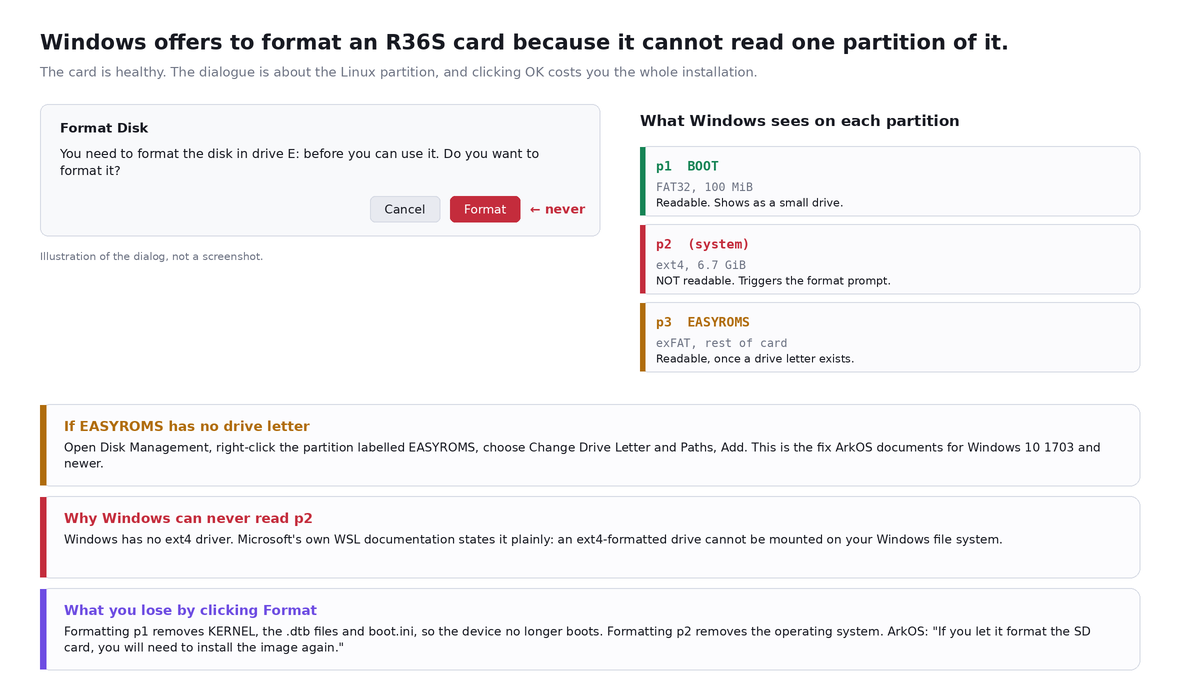
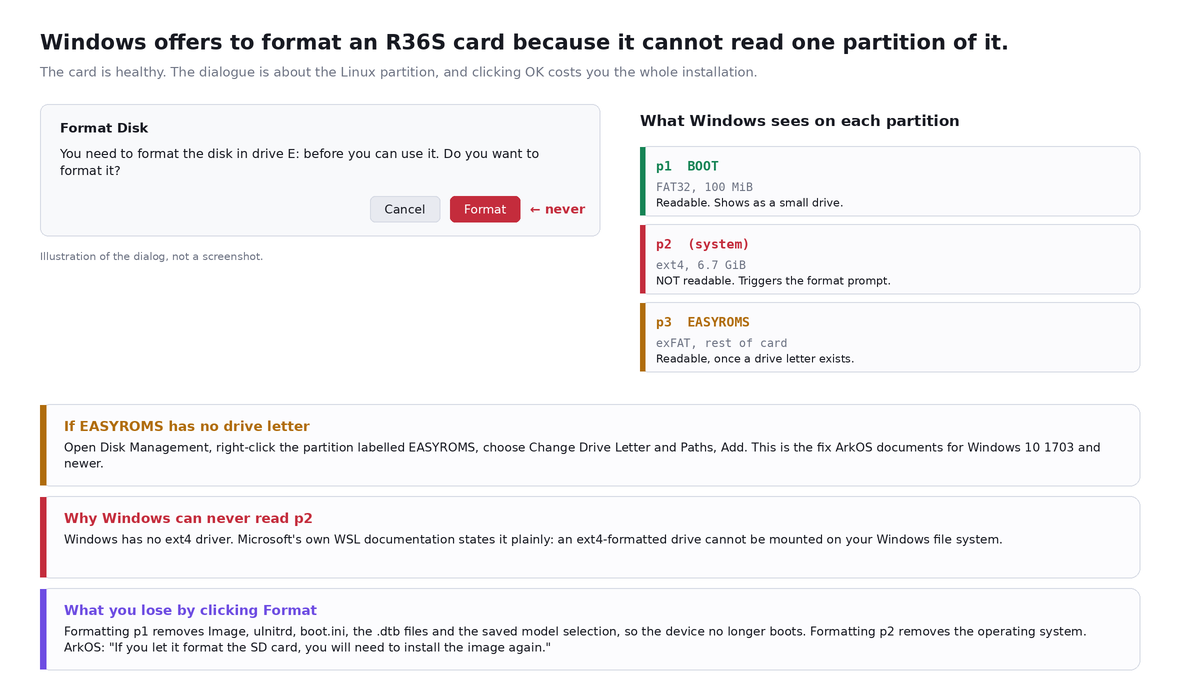
Apply verification corrections from a second research pass
- BOOT holds Image + uInitrd (not uImage/KERNEL), plus the persisted model selection
- EASYROMS format also loses the roms/tools bind-mount
- V30 IS supported: it is in files/BOOT/dtb/r36s, only absent from the wiki table
- The phone failure has two documented mechanisms (Android adoptable storage formats
  and encrypts; cards can set a permanent write-protect bit) - 'the OTG reader broke
  it' has no primary source and is now marked as folklore
- ddrescue needs -f when the output is a device
- fsck.fat's -f salvages orphan clusters, it is not 'force'
- DiskGenius free tier: small files only, no sector image
- balenaEtcher cannot image a device to a file
- Microsoft's RAW / 'Not Initialized' / 'Unreadable' states as the damage test
- SDXC capacity is per card, not fixed by the standard
- Windows hides a partition typed 0x83: a second way the games partition vanishes
- h2testw points at the live product page

Changed region(s): [[0.061, 0.87, 0.9153, 0.93]]

diff --git a/README.md b/README.md
@@ -86,17 +86,20 @@ offsets and type codes are visible:
 
 | Partition | Start sector | Size in the image | Type code | What it is |
 |---|---|---|---|---|
-| p1 | 32768 | 100 MiB | `0c` W95 FAT32 (LBA) | `BOOT`: `KERNEL`, the `.dtb` files, `boot.ini` |
+| p1 | 32768 | 100 MiB | `0c` W95 FAT32 (LBA) | `BOOT`: `Image` (the kernel), `uInitrd`, `boot.ini`, the `.dtb` files, the model selector |
 | p2 | 237568 | 6.7 GiB | `83` Linux (ext4) | the operating system |
 | p3 | 14368768 | 100 MiB placeholder | `07` HPFS/NTFS/exFAT | named `EASYROMS`, grown to fill the card on first boot |
 
 So:
 
 - **p1 `BOOT`** is FAT32. Windows reads it, and it is the small drive that appears first.
-- **p2 (ext4)** Windows cannot read at all. Microsoft's own WSL documentation says it without hedging:
-  *"If you have an Ext4-formatted drive, you cannot mount it on your Windows file system."* Windows has no
-  ext4 driver, so it sees a volume with an unknown filesystem — and its standard reaction to an unknown
-  filesystem on removable media is to offer to format it.
+- **p2 (ext4)** Windows cannot read at all. Microsoft's list of the filesystems Windows supports is
+  *"NTFS / ExFAT / UDF / FAT32"* — ext4 is not on it, and Microsoft's WSL documentation says so without
+  hedging: *"If you have an Ext4-formatted drive, you cannot mount it on your Windows file system."*
+  Microsoft then defines the state that triggers the dialog: *"If a partition doesn't have a file system
+  (it's listed as RAW instead of NTFS, ReFS, FAT32, or exFAT) …"* — and adds its own warning, aimed at
+  exactly this situation: *"Formatting a disk erases all data on it, so don't do this step if you're
+  trying to recover files from the disk."*
 - **p3 `EASYROMS`** is exFAT and Windows *can* read it. If it does not appear, that is usually a missing
   drive letter, and the documented fix is a drive letter, not a format.
 
@@ -123,14 +126,18 @@ which Windows reads natively.
 
 That is about the flashing step, but it applies every time the dialogue appears:
 
-- Format **p1 (`BOOT`)** and you lose `KERNEL`, the `.dtb` files and `boot.ini`. The device will not boot.
-  The card still holds your games, but you now need a re-flash to use them.
+- Format **p1 (`BOOT`)** and you lose `Image` (the kernel), `uInitrd`, `boot.ini`, the `.dtb` files and
+  the small hidden state files the image writes back into `/boot` — including the persisted board/panel
+  selection. The device will not boot, and on a unit that needs a panel-specific device tree the result
+  is usually a black screen. The card still holds your games, but you now need a re-flash to use them.
 - Format **p2 (ext4)** and you lose the operating system. This is the partition Windows is usually
   complaining about, and it is the one with nothing on it that Windows can show you — which is exactly why
   people click OK.
-- Format **p3 (`EASYROMS`)** and you lose the games and the `roms` folder structure. Recoverable by
-  copying files back, but you must not delete the folders the emulators depend on: ArkOS warns that the
-  PSP and NDS folders contain files those emulators need.
+- Format **p3 (`EASYROMS`)** and you lose the games, the `roms` folder structure and the `roms/tools`
+  tree that is bind-mounted into the system (PortMaster and the other on-device tools live there). The
+  operating system still boots, so this is the one of the three that is survivable — but you must not
+  delete the folders that are already there: ArkOS warns that the PSP and NDS folders contain files those
+  emulators need even before you add a single game.
 
 Formatting is not a "reset the card to a known good state" button on a device whose operating system
 lives on the same card.
@@ -139,15 +146,38 @@ lives on the same card.
 
 ![Decision tree: what to check before you let anything format the card](docs/02-decision-tree.png)
 
-1. **The partition table is gone.** Disk Management shows the whole card as unallocated, or the large
-   partition shows as `RAW`, and the device does not boot. Windows will happily offer to "fix" this by
-   creating one big empty partition — which overwrites the table that still points at your data.
+1. **The partition table is gone.** Here you can use Microsoft's own vocabulary as the test, because it
+   distinguishes the two cases for you: a partition that lists as **`RAW`** means Windows can see the
+   partition but not its filesystem — which is simply what a Linux partition looks like — whereas a disk
+   reporting **"Not Initialized"** (Microsoft: *"the drive formatting has become corrupted somehow"*) or
+   **"Unreadable"** means Windows cannot even make sense of the partitioning. Those last two are
+   corruption or hardware failure, not a Linux filesystem. Windows will happily offer to "fix" either one
+   by creating a single empty partition, overwriting the table that still points at your data.
    **TestDisk** exists for exactly this: it reconstructs a lost partition table, recovers FAT boot sectors
    from their backups, and can locate ext2/3/4 backup superblocks.
-2. **The card is dying or counterfeit.** It disappears from every reader, or the device will not boot
-   even though the same card worked yesterday. The group member who lost 320 games after an OTG session
-   on a phone is describing this class of failure. Copy whatever sectors are still readable to an image
-   file, then replace the card. A card that has started doing this does not come back.
+2. **The card is dying, counterfeit, or has been reformatted by a phone.** The group member who lost 320
+   games after sorting files on the card through a phone needs a specific answer, because there are two
+   documented ways that happens and only one of them is hardware damage:
+
+   - **Android adoptable storage.** If the phone offered to "set up" the card and that was accepted,
+     Android reformats and encrypts it. Google's documentation: *"When external storage media is adopted,
+     it's formatted and encrypted to only work with a single Android device at a time"* and *"they can
+     choose to adopt the media, which formats and encrypts it."* The card is then unreadable in the R36S
+     **and** on a PC, and no recovery tool will get the games back — but nothing is physically broken, and
+     the fix is simply to reformat the card and copy the games across again.
+   - **A card that has set its own permanent write-protect bit.** SD cards carry a
+     `PERM_WRITE_PROTECT` flag (CSD bit 13) that makes them read-only for good — Kingston documents the
+     bit, and Linux acts on it unconditionally in the MMC layer. From then on the card looks fine and
+     refuses every write, which shows up as a filesystem that cannot be repaired.
+
+   The third possibility, that the OTG reader physically damaged the card, is the explanation everyone
+   repeats and we could not find a single primary source for it — treat it as folklore.
+
+   > ⚠ **Not verified:** we did not reproduce the phone/OTG failure. The two mechanisms above are the
+   > documented ones; "the reader fried the card" is asserted widely and documented nowhere.
+
+   Either way the response is the same: copy whatever sectors are still readable to an image file, then
+   replace the card. A card that has started failing does not come back.
 
 The third possibility worth ruling out is simply a **fake-capacity card** — one that reports 128 GB and
 really has 8 GB, so everything past the real capacity silently overwrites itself. `f3`
@@ -160,7 +190,8 @@ noticing that their "128 GB" card is "actually only 90 GB" is the benign version
 
 Our own unit's System Info screen. Two things worth reading off it: **SD Card 1 reports 119.88 GB**,
 which is the figure you expect from a card in the 128 GB class — the usual decimal-vs-binary gap, not
-evidence of a fake card — and **SD Card 2 is listed separately**, which is the second slot. That second
+evidence of a fake card (the SD standard itself defines SDXC only as *"over 32GB-2TB"*, so the exact byte
+count is per-card and two cards with the same printed capacity are not required to match) — and **SD Card 2 is listed separately**, which is the second slot. That second
 slot is what makes the "my games card is interchangeable" question below interesting.
 
 ---
@@ -201,11 +232,17 @@ Use `ddrescue` instead when the card is failing, so a bad sector does not end th
 ```bash
 sudo apt install gddrescue
 sudo ddrescue -d -r3 /dev/sdX ~/r36s-card.img ~/r36s-card.map
+
+# card -> card instead? Then the manual's own form adds -f, and omits it would be refused:
+sudo ddrescue -f -r3 /dev/sdX /dev/sdY mapfile
 ```
 
-`-d` (`--idirect`) bypasses the kernel cache; `-r3` (`--retry-passes=3`) retries bad areas three times;
-the third argument is the mapfile, which lets you resume and tells you exactly which regions never came
-back. On Windows, **Win32DiskImager** does the same job — its own documentation describes it as being
+`-d` (`--idirect`) reads the *input* bypassing the kernel cache (writing direct is a separate flag, `-D`);
+`-r3` (`--retry-passes=3`) retries bad areas three times; the third argument is the mapfile, which lets you
+resume and tells you exactly which regions never came back — the manual calls it *"an essential part of
+ddrescue's effectiveness"*. The `-f` in the second form is not optional: the manual says it is *"needed
+when outfile is not a regular file, but a device or partition"*, and without it ddrescue refuses to write
+to a device. That safeguard exists for a good reason, so read the device names twice. On Windows, **Win32DiskImager** does the same job — its own documentation describes it as being
 designed to *"write a raw disk image to a removable device **or backup a removable device to a raw image
 file**"*, and it recommends doing a Read before you ever write to a device.
 
@@ -236,22 +273,41 @@ sudo fsck.vfat -n /dev/sdX1     # -n = check only, change nothing
 sudo e2fsck -f -y /dev/sdX2     # -f = force a full check, -y = answer yes
 ```
 
-`fsck.vfat -n` is a read-only check; if it reports problems you can re-run it without `-n` to let it fix
-them. `e2fsck` on a mounted filesystem is a bad idea — start with `-n` if you want a look before you let
-it write. Run these against the **image** first if the card is suspect.
+`fsck.vfat -n` is a read-only check; if it reports problems, re-run it with `-a` to let it repair them.
+`e2fsck` on a mounted filesystem is a bad idea — start with `-n` if you want a look before you let it
+write. Run these against the **image** first if the card is suspect.
+
+**One flag to get right, because a lot of copied advice gets it wrong:** for `fsck.fat`, `-f` does **not**
+mean "force". The manual defines it as *"salvage unused cluster chains to files"* — essentially the
+opposite of a no-op safety check, and it can expose deleted data as new files. The "repair automatically"
+flag for FAT is `-a` (or `-p`). On `e2fsck` the same letter *does* mean force, which is where the
+confusion comes from. Also note that `fsck.vfat`, `fsck.fat` and `dosfsck` are three names for one
+program.
 
 ### Tool summary
 
 | Need | Windows | Linux / macOS |
 |---|---|---|
 | Read the partition table | Disk Management, DiskGenius | `lsblk`, `fdisk -l`, `sfdisk --dump` |
-| Image the card to a file | Win32DiskImager (Read), DiskGenius | `dd`, `ddrescue` |
+| Image the card to a file | Win32DiskImager (Read), DiskGenius Professional | `dd`, `ddrescue` |
 | Write an image back | Rufus, USB Image Tool, Win32DiskImager | `dd` |
 | Rebuild a lost partition table | TestDisk, DiskGenius | TestDisk |
-| Read / recover ext4 content | DiskGenius | mount it, `e2fsck`, PhotoRec |
+| Read / recover ext4 content | DiskGenius (free tier: small files only) | mount it, `e2fsck`, PhotoRec |
 | Carve files out of a broken filesystem | PhotoRec | PhotoRec |
 | Check FAT32 / ext4 integrity | DiskGenius (check & repair) | `fsck.vfat`, `e2fsck` |
 | Test for a fake card | `h2testw` | `f3probe`, `f3write` + `f3read` |
+
+**Two things to know before you rely on DiskGenius.** It does document EXT4 read *and* write on Windows,
+but the tiers differ in ways that matter on a failing card: in the official feature comparison the
+*"Copy Files from Ext2/3/4 Partition"* row is marked *"Only small files can be copied"* in the Free **and**
+Standard editions, and *"Back up Partition to Image by Sectors"* — the sector image you actually want from
+a dying card — is not in the Free edition. Use a Linux machine or `ddrescue` for the image, whatever you
+use for browsing.
+
+And a correction to a very common recommendation: **balenaEtcher cannot read a card to an image file.**
+Its own issue tracker has had *"Implement a way to perform a backup from a drive"* open since 2016. It can
+clone drive-to-drive. So it is not a backup tool for this purpose — and ArkOS tells you not to use it for
+these images anyway.
 
 > ⚠ **Not tested here:** everything in the Windows column is quoted from the vendor's own documentation.
 > We do not run Windows, so we did not execute DiskGenius, Win32DiskImager, DiskGenius' ext4 browsing or
@@ -276,9 +332,12 @@ sudo dd if=~/r36s-card.img of=/dev/sdY bs=4M status=progress conv=fsync
 ```
 
 Check the sizes before you start. `blockdev --getsz /dev/sdX` prints the capacity in 512-byte sectors,
-`lsblk` prints it in bytes. **Cards sold as the same capacity do not have the same number of sectors.**
-Our own unit reports 119.88 GB; another card in the same capacity class can easily be a gigabyte or two
-different. If the target is smaller than the source, the copy runs out of room partway and leaves you with
+`lsblk` prints it in bytes. **Cards sold as the same capacity do not have the same number of sectors.** This is not folklore: the SD
+standard defines SDXC only as *"over 32GB-2TB"* and fixes no exact byte count, so the real size comes from
+each card's own `C_SIZE` register and two cards with identical printing are allowed to differ. Real
+reports exist of two same-brand, same-model "128 GB" cards where one was a few gigabytes too small to
+receive the other's image. Our own unit reports 119.88 GB; another card in the same capacity class can
+easily be a gigabyte or two different. If the target is smaller than the source, the copy runs out of room partway and leaves you with
 a truncated card that looks plausible and does not boot. This is exactly the mechanism behind the group
 member's report that cloning a 32 GB card with AOMEI Backupper *"needed a 64 GB card"* — sector-level
 cloning wants a target at least as large as the source, so the safe habit is to clone onto a card that is
@@ -321,13 +380,17 @@ This is the group question worth answering properly, and the answer is split:
   and the `Y3506` "Soy Sauce" variants. Drop the right `.dtb` in and the device boots; drop in one from a
   different board and you get exactly the symptom people describe as "a black screen after flashing".
 
-  One thing that matrix makes concrete: as we read it, it covers V12 (two panels), V20, V21, V22, Y02 and
-  the clones — and **no V30 profile**. That matches what we see in the QQ log, where V30 owners say they
-  go looking for V30 information and cannot find it. If you own a V30 board, check the project's current
-  release notes before assuming a profile exists for it; the list changes between releases.
+  The place to look is not the wiki's support table but the project's own `BOOT` staging tree, which
+  carries one directory per board revision. That tree currently includes
+  `R36S-V30 2025-11-18`, `R36S-V21 2024-12-18 2550/2551/2552`, `R36S-V22 2024-12-18`,
+  `R36S-Y02 2024-11-27` and `2024-12-18`, `R36XX-V21 2024-12-18`, `R36S Plus-V20 2025-03-18`,
+  `HL-R36H-V20` and `V21`, `GR36S-Y07 2025-09-11`, and the `G80C`/`G80CA`/`G80D`/`GR36` clone boards.
+  So a V30 unit is not stranded — but note the lesson from the groups: V30 owners in the QQ log say they
+  went looking for V30 information and could not find it, which is what happens when you search a wiki
+  table instead of the directory the `.dtb` files actually live in.
 
-  > ⚠ **Verified when this was written, not a live fact.** We read that supported-hardware table on
-  > 2026-10-11. Vendor lists change; check the source before relying on it.
+  > ⚠ **Verified when this was written, not a live fact.** We listed that tree on 2026-10-11. It changes
+  > between releases; check it before relying on it.
 - **The practical consequence:** keep them separate. Use the internal card for the system and a second
   card for games, and if you lend a card to someone, make sure it is the games card. If you must move a
   system card between units, expect to re-select the model/`.dtb` for the board it is going into.
@@ -368,9 +431,11 @@ This is the group question worth answering properly, and the answer is split:
 - **Keep the system card and the games card separate.** Then a formatting accident costs you a folder of
   files, not an installation.
 - **Do not sort files on the card through a phone or an OTG card reader.** This one comes from a group
-  member who lost 320 games to exactly that, and the mechanism — power or the connection dropping
-  mid-write on removable media — is not something the card can defend itself against. Shut the device
-  down (`Start + Power`), take the card out and use a real card reader on a computer.
+  member who lost 320 games to exactly that. Two things can go wrong and neither is recoverable: if the
+  phone offers to use the card as internal storage, accepting it reformats and encrypts the card; and a
+  connection that drops mid-write on removable media has no journal to fall back on. Shut the device down
+  (`Start + Power`), take the card out and use a real card reader on a computer. If a phone ever asks
+  *"how will you use this SD card?"*, the answer for an R36S card is never "as internal storage".
 - **Buy a name-brand card from a reputable seller, and test it once.** ArkOS: minimum 8 GB, 16 GB or more
   strongly recommended, *"Do not use low quality or no name brand SD cards. Those will most likely fail
   quickly, cause inconsistent emulation performance, or fail in booting up."*
@@ -395,9 +460,18 @@ This is the group question worth answering properly, and the answer is split:
 | "If you have an Ext4-formatted drive, you cannot mount it on your Windows file system"; "`wsl --mount` does not currently support USB/flash drives/SD card readers"; administrator rights and Windows 11 requirement | [Microsoft Learn → Mount a Linux disk in WSL 2](https://learn.microsoft.com/en-us/windows/wsl/wsl2-mount-disk) |
 | "write a raw disk image to a removable device or backup a removable device to a raw image file"; Read-before-write recommendation | [Win32 Disk Imager](https://sourceforge.net/projects/win32diskimager/) |
 | Partition-table recovery, FAT32 boot-sector recovery from backup, ext2/3/4 backup superblock location, file copy from deleted partitions | [CGSecurity → TestDisk](https://www.cgsecurity.org/wiki/TestDisk) |
+| The `BOOT` partition contents, the real `boot.ini`, and the per-board `.dtb` directories | [`southoz/dArkOSRE-R36` → `files/BOOT/`](https://github.com/southoz/dArkOSRE-R36/tree/main/files/BOOT) |
+| `-f --force` needed when the output is a device or partition; `-d/--idirect` vs `-D/--odirect`; what the mapfile is for | [GNU ddrescue manual](https://www.gnu.org/software/ddrescue/manual/ddrescue_manual.html) |
+| `fsck.fat`'s `-f` means "salvage unused cluster chains to files"; `fsck.vfat`/`dosfsck` are the same program | [dosfstools `fsck.fat(8)`](https://manpages.debian.org/bookworm/dosfstools/fsck.vfat.8.en.html) |
+| Which filesystems Windows supports; what `RAW` means and Microsoft's own "don't format if you are recovering files" warning; the "Not Initialized" / "Unreadable" disk states | [Microsoft Learn → About file system drivers](https://learn.microsoft.com/en-us/windows-hardware/drivers/ifs/about-file-system-drivers), [Troubleshoot Disk Management](https://learn.microsoft.com/en-us/troubleshoot/windows-server/backup-and-storage/troubleshoot-disk-management) |
+| Android formats and encrypts a card when it is adopted, binding it to one device | [Android Open Source Project → Adoptable storage](https://source.android.com/docs/core/storage/adoptable) |
+| The card's own `PERM_WRITE_PROTECT` flag (CSD bit 13) makes a card permanently read-only | Kingston SD datasheet; Linux `drivers/mmc/core/sd.c` |
+| SDXC is defined only as "over 32GB-2TB", so the exact capacity is per card | [SD Association → Capacity](https://www.sdcard.org/developers/sd-standard-overview/capacity-sd-sdhc-sdxc-sduc/) |
+| DiskGenius edition limits ("Only small files can be copied", sector image not in Free) and EXT4 read/write support | [DiskGenius → Read & Write Ext4 in Windows](https://www.diskgenius.com/how-to/ext4-windows.php), [edition comparison](https://www.diskgenius.com/editions.php) |
+| balenaEtcher cannot create an image from a device | [balena-io/etcher issue #266](https://github.com/balena-io/etcher/issues/266) |
 | EXT4/3/2 file and partition recovery on Windows | [DiskGenius → Linux Data Recovery](https://www.diskgenius.com/how-to/linux-data-recovery.php) |
 | `-d/--idirect` and `-r/--retry-passes`, and what the mapfile does | [GNU ddrescue manual](https://www.gnu.org/software/ddrescue/manual/ddrescue_manual.html) |
-| Fake-flash-capacity testing | [AltraMayor/f3](https://github.com/AltraMayor/f3); `h2testw` ([heise.de](https://www.heise.de/download/product/h2testw-50537)) |
+| Fake-flash-capacity testing | [AltraMayor/f3](https://github.com/AltraMayor/f3); `h2testw` ([heise.de](https://www.heise.de/download/product/h2testw-50539)) |
 | The "you need to format the disk" prompt refers to the Linux partition; `TF1-OS` / `TF2-GAME` slot naming; never remove the card while the device is on | [r36s.org → How to Add Games to R36S](https://r36s.org/articles/tutorial-add-games) |
 | QQ messages quoted in section 1 | internal analysis of 22,869 unique messages from 9 Chinese handheld QQ groups |
 
